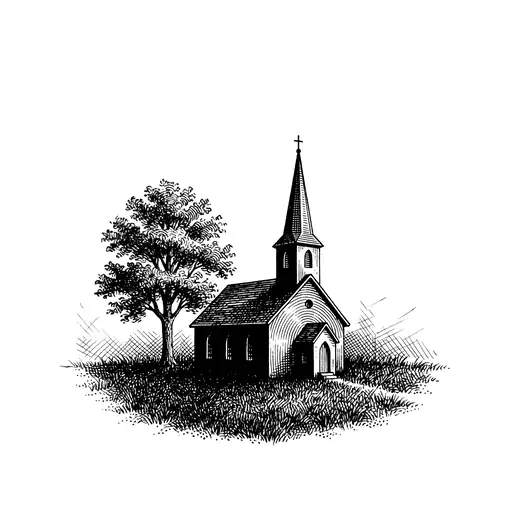
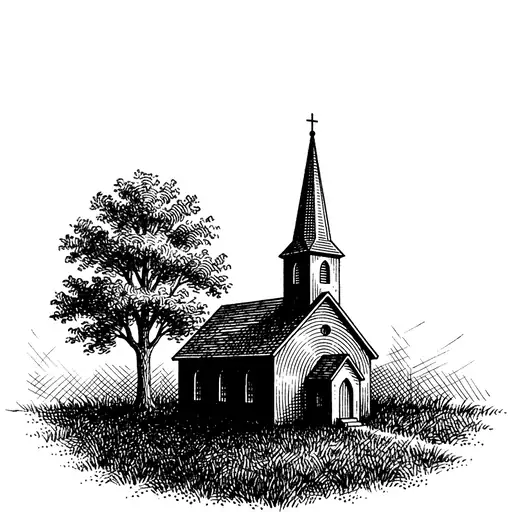
Fill the cells: seat art at the bottom and make thumbnails square
Trims the margin the model leaves, so each drawing is larger, and keeps the
blank paper above it for the title. Square thumbnails stop portrait fallbacks
stretching every row.

Changed region(s): [[0.0312, 0.2188, 0.9688, 1.0]]

diff --git a/src/styles/app.css b/src/styles/app.css
@@ -185,8 +185,8 @@ p a { color: inherit; text-underline-offset: 3px; }
   :root:not([data-theme='light']) .thumb-generated { filter: invert(1) brightness(0.88); mix-blend-mode: screen; }
 }
 /* The title prints over the blank paper at the top of the art, and the art sits on the cell's floor. */
-.cell > .thumb { margin-top: auto; }
-.cell:has(.thumb[data-art]) > .cell-head { z-index: 1; margin-bottom: -24%; }
+.cell > .thumb { margin-top: auto; aspect-ratio: 1; }
+.cell:has(.thumb[data-art]) > .cell-head { z-index: 1; margin-bottom: -18%; }
 .thumb-art { position: absolute; inset: 0; display: block; width: 100%; height: 100%; }
 .thumb-icon { display: block; width: 100%; height: 100%; object-fit: contain; padding: 8%; }
 .thumb-stamp {

diff --git a/docs/SPEC.md b/docs/SPEC.md
@@ -310,18 +310,19 @@ share it (`workArt { workId, state: queued|ready|failed|rejected, small, large, 
 model and costs more, so asking for less would cost more. Aspect ratio 1:1, which
 keeps cells compact and matches the mockup. Check prices before a large run.
 
-**Post-process, in this order:** greyscale, level the paper to white and the ink to black, then
-encode two sizes as WebP at quality 60. Don't trim: the blank top is part of the design. Discard the original:
+**Post-process, in this order:** greyscale, level the paper to white and the ink to black, trim the
+margin the model leaves, fit to 98% of the width and 78% of the height, seat it at the bottom of a
+white square so the blank top stays, then encode two sizes as WebP at quality 60. Discard the original:
 regenerating one costs under 2 cents, and keeping them would use more storage than
 everything else combined.
 
 | Rendition | Used for | Size per image, measured |
 |---|---|---|
-| 256px | Grid cells on most screens | 3 to 8 KB |
-| 512px | Book page, large cells, high-density phones | 12 to 30 KB |
+| 256px | Grid cells on most screens | 3 to 11 KB |
+| 512px | Book page, large cells, high-density phones | 13 to 41 KB |
 
-Those are measured on 10 real generated drawings. At about 40 KB at worst for a book, 2,000
-books use at most about 80 MB of Convex's included 1 GB. `srcset` picks the size. Serve with long-lived caching, because art for a work never changes; a
+Those are measured on 10 real generated drawings. At about 52 KB at worst for a book, 2,000
+books use at most about 104 MB of Convex's included 1 GB. `srcset` picks the size. Serve with long-lived caching, because art for a work never changes; a
 regeneration gets a new file. Verify the real cache headers on Convex's file URLs.
 
 **One file, both themes.** Art is stored as a neutral drawing on white and printed onto

diff --git a/docs/art/prompt.md b/docs/art/prompt.md
@@ -1,8 +1,8 @@
 # Cover art prompt
 
 Sent to `gemini-3.1-flash-lite-image` at 1K and 1:1, with `style-reference.png` as the reference image. `{{subject}}` comes from
-the small text model. Post-process with: greyscale, `-level 10%,85%`, resize, WebP quality 60. Don't trim: the blank top
-is part of the design.
+the small text model. Post-process with: greyscale, `-level 10%,85%`, trim, fit to 98% width and 78% height, seat at the
+bottom of a white square, WebP quality 60.
 
 ```
 Draw one small ink illustration for a printed book catalog.
